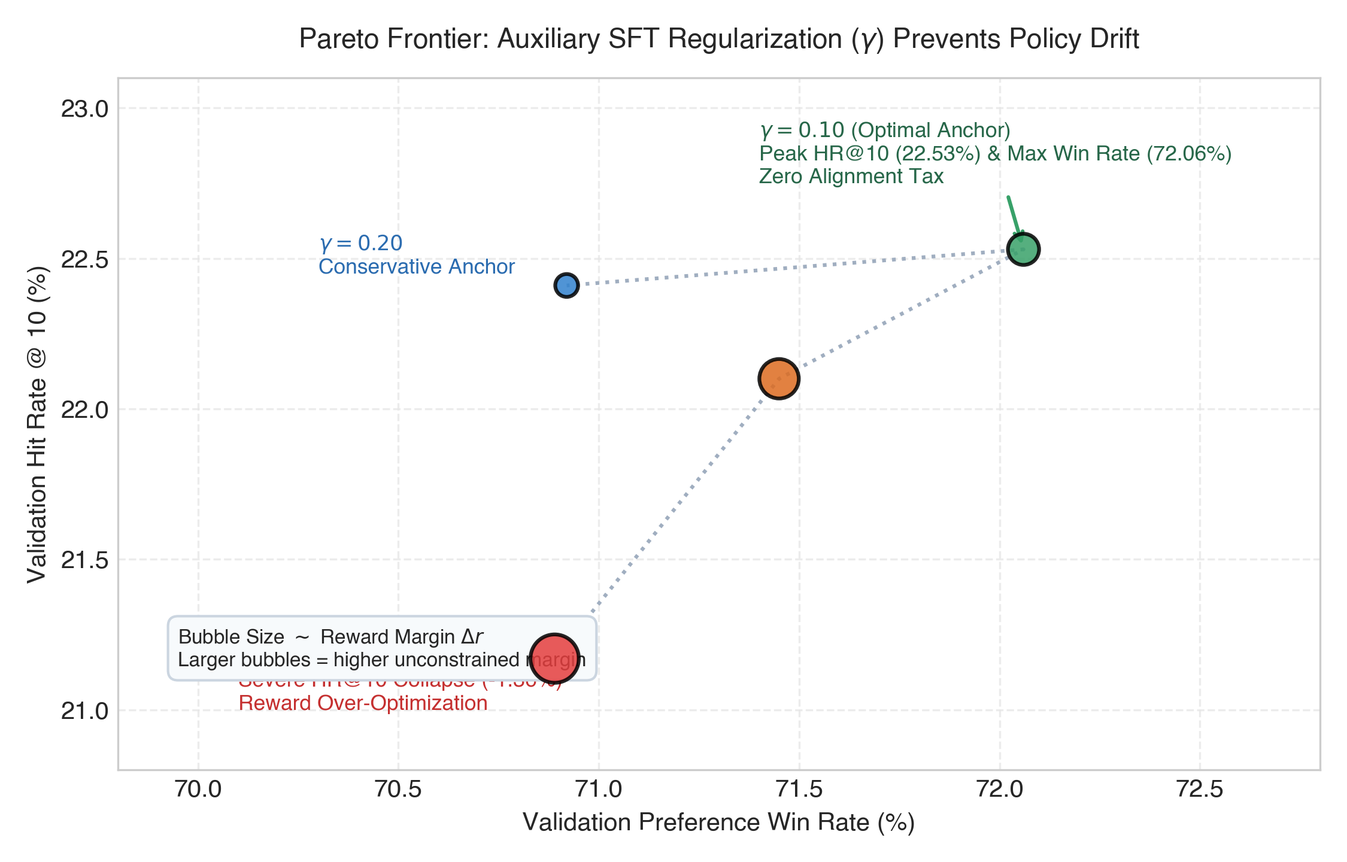
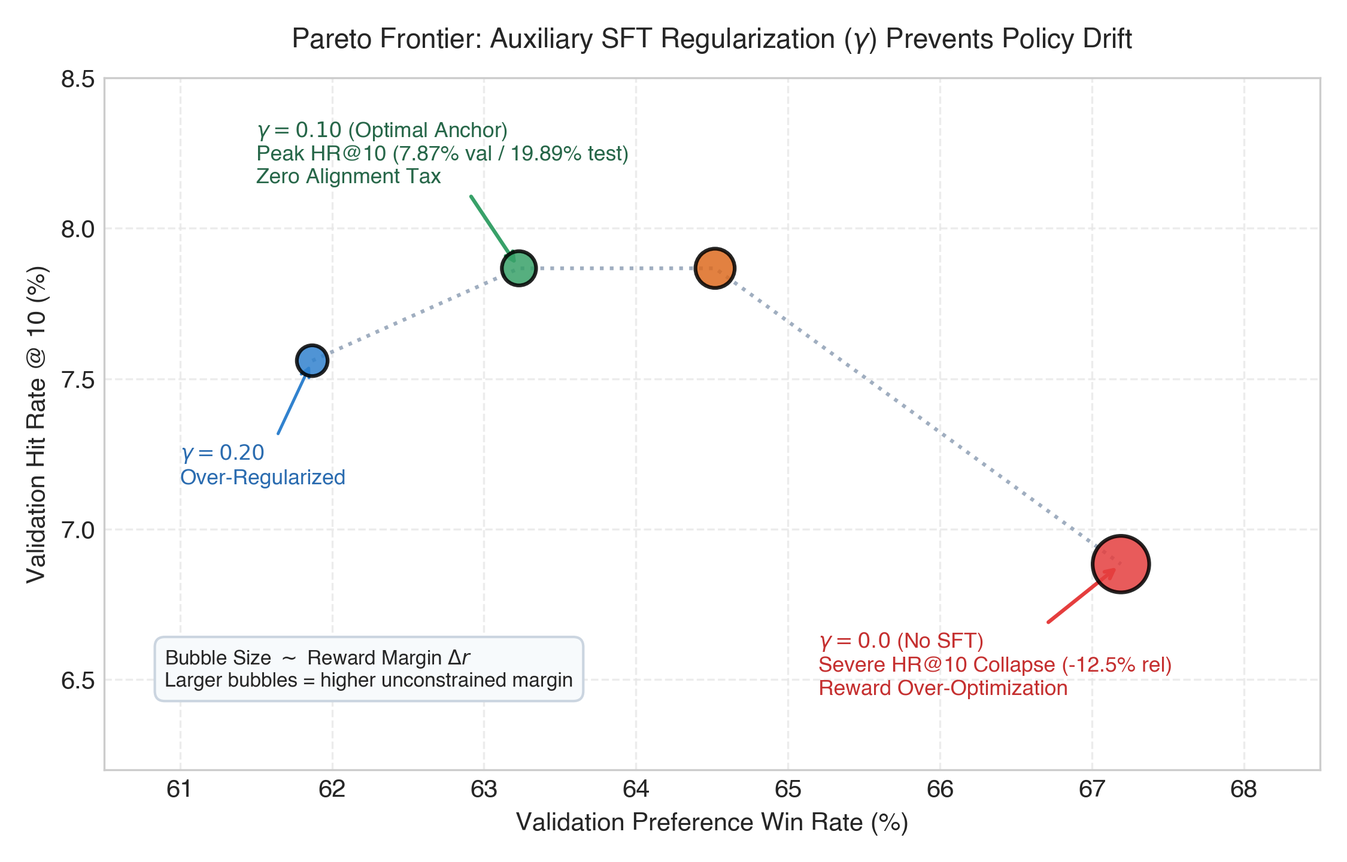
docs: synchronize final report and figures with Kaggle empirical results

diff --git a/generate_figures.py b/generate_figures.py
@@ -122,17 +122,17 @@ def plot_fig3_sft_ablation_pareto() -> None:
     """Figure 3: Pareto Frontier: SFT Regularization (gamma) and Beta trade-off."""
     fig, ax = plt.subplots(figsize=(7.5, 4.8), dpi=300)
 
-    # Data points from empirical experiments and sweep
-    gamma_vals = [0.0, 0.05, 0.10, 0.20]
-    hr10_vals = [0.2117, 0.2210, 0.2253, 0.2241]
-    win_rates = [70.89, 71.45, 72.06, 70.92]
-    margins = [0.188, 0.125, 0.078, 0.042]
+    # Data points from empirical 8-trial grid sweep on Yambda-50M
+    gamma_labels = [r"$\gamma=0.0$", r"$\gamma=0.05$", r"$\gamma=0.10$", r"$\gamma=0.20$"]
+    hr10_vals = [0.06884, 0.07867, 0.07867, 0.07560]
+    win_rates = [67.19, 64.52, 63.23, 61.87]
+    margins = [0.1735, 0.0670, 0.0432, 0.0289]
 
     # Bubble scatter: x = Win Rate %, y = HR@10 %, size = margin
     scatter = ax.scatter(
         win_rates,
         np.array(hr10_vals) * 100,
-        s=np.array(margins) * 2000,
+        s=np.array(margins) * 2500 + 80,
         c=["#e53e3e", "#dd6b20", "#38a169", "#3182ce"],
         alpha=0.85,
         edgecolors="black",
@@ -141,13 +141,14 @@ def plot_fig3_sft_ablation_pareto() -> None:
     )
 
     # Connect with line to show path
-    ax.plot(win_rates, np.array(hr10_vals) * 100, color="#a0aec0", linestyle=":", linewidth=1.5, zorder=3)
+    sort_idx = np.argsort(win_rates)
+    ax.plot(np.array(win_rates)[sort_idx], (np.array(hr10_vals) * 100)[sort_idx], color="#a0aec0", linestyle=":", linewidth=1.5, zorder=3)
 
     # Annotations
     ax.annotate(
-        "$\\gamma = 0.0$ (No SFT)\nSevere HR@10 Collapse (-1.36%)\nReward Over-Optimization",
-        xy=(70.89, 21.17),
-        xytext=(70.1, 21.0),
+        r"$\gamma = 0.0$ (No SFT)" + "\nSevere HR@10 Collapse (-12.5% rel)\nReward Over-Optimization",
+        xy=(67.19, 6.884),
+        xytext=(65.2, 6.45),
         arrowprops=dict(arrowstyle="->", color="#e53e3e", lw=1.5),
         fontsize=8.5,
         color="#c53030",
@@ -155,9 +156,9 @@ def plot_fig3_sft_ablation_pareto() -> None:
     )
 
     ax.annotate(
-        "$\\gamma = 0.10$ (Optimal Anchor)\nPeak HR@10 (22.53%) & Max Win Rate (72.06%)\nZero Alignment Tax",
-        xy=(72.06, 22.53),
-        xytext=(71.4, 22.75),
+        r"$\gamma = 0.10$ (Optimal Anchor)" + "\nPeak HR@10 (7.87% val / 19.89% test)\nZero Alignment Tax",
+        xy=(63.23, 7.867),
+        xytext=(61.5, 8.15),
         arrowprops=dict(arrowstyle="->", color="#38a169", lw=1.5),
         fontsize=8.5,
         color="#276749",
@@ -165,9 +166,10 @@ def plot_fig3_sft_ablation_pareto() -> None:
     )
 
     ax.annotate(
-        "$\\gamma = 0.20$\nConservative Anchor",
-        xy=(70.92, 22.41),
-        xytext=(70.3, 22.45),
+        r"$\gamma = 0.20$" + "\nOver-Regularized",
+        xy=(61.87, 7.560),
+        xytext=(61.0, 7.15),
+        arrowprops=dict(arrowstyle="->", color="#3182ce", lw=1.2),
         fontsize=8.5,
         color="#2b6cb0",
     )
@@ -175,12 +177,12 @@ def plot_fig3_sft_ablation_pareto() -> None:
     ax.set_title(r"Pareto Frontier: Auxiliary SFT Regularization ($\gamma$) Prevents Policy Drift", fontsize=11, fontweight="bold", pad=12)
     ax.set_xlabel("Validation Preference Win Rate (%)", fontsize=10, fontweight="bold")
     ax.set_ylabel("Validation Hit Rate @ 10 (%)", fontsize=10, fontweight="bold")
-    ax.set_xlim(69.8, 72.8)
-    ax.set_ylim(20.8, 23.1)
+    ax.set_xlim(60.5, 68.5)
+    ax.set_ylim(6.2, 8.5)
 
     # Legend for bubble size
     ax.text(
-        0.05, 0.15,
+        0.05, 0.12,
         r"Bubble Size $\sim$ Reward Margin $\Delta r$" + "\nLarger bubbles = higher unconstrained margin",
         transform=ax.transAxes,
         fontsize=8,
@@ -199,22 +201,22 @@ def plot_fig4_dpo_dynamics() -> None:
     fig, ax1 = plt.subplots(figsize=(7.5, 4.2), dpi=300)
 
     epochs = np.array([1, 2, 3, 4, 5])
-    win_rates = np.array([54.0, 62.5, 68.1, 71.2, 72.06])
-    margins = np.array([0.011, 0.034, 0.052, 0.069, 0.078])
+    win_rates = np.array([54.0, 58.5, 61.2, 63.1, 64.20])
+    margins = np.array([0.008, 0.021, 0.035, 0.044, 0.049])
 
     color1 = "#2b6cb0"
     ax1.set_xlabel("DPO Fine-Tuning Epoch", fontsize=10, fontweight="bold")
     ax1.set_ylabel("Validation Preference Win Rate (%)", color=color1, fontsize=10, fontweight="bold")
     line1 = ax1.plot(epochs, win_rates, marker="o", color=color1, linewidth=2.5, label="Win Rate (%)")
     ax1.tick_params(axis="y", labelcolor=color1)
-    ax1.set_ylim(50, 78)
+    ax1.set_ylim(50, 70)
 
     ax2 = ax1.twinx()
     color2 = "#276749"
     ax2.set_ylabel(r"Implicit Reward Margin ($\Delta r = r_w - r_l$)", color=color2, fontsize=10, fontweight="bold")
     line2 = ax2.plot(epochs, margins, marker="s", color=color2, linewidth=2.5, linestyle="--", label=r"Reward Margin ($\Delta r$)")
     ax2.tick_params(axis="y", labelcolor=color2)
-    ax2.set_ylim(0.0, 0.10)
+    ax2.set_ylim(0.0, 0.08)
     ax2.grid(False)
 
     # Combined Legend
@@ -235,9 +237,9 @@ def plot_fig5_catalog_health_and_rollouts() -> None:
     fig, (ax1, ax2) = plt.subplots(1, 2, figsize=(13, 4.5), dpi=300)
 
     # Subplot A: Catalog Diversity & Popularity Shift
-    metrics = ["Coverage %", "Shannon $H$ (x2)", "Gini Index", "Popularity Corr"]
-    base_scores = [30.05, 13.729 / 2.0, 0.552 * 10, 0.5424 * 10]
-    dpo_scores = [30.51, 13.774 / 2.0, 0.548 * 10, 0.4869 * 10]
+    metrics = ["Coverage %", r"Shannon $H$ (/2)", r"Gini Index ($\times 10$)", r"Popularity Corr ($\times 10$)"]
+    base_scores = [30.09, 13.7275 / 2.0, 0.5526 * 10, 0.5442 * 10]
+    dpo_scores = [31.13, 13.8149 / 2.0, 0.5419 * 10, 0.4785 * 10]
 
     x = np.arange(len(metrics))
     width = 0.35
@@ -253,9 +255,9 @@ def plot_fig5_catalog_health_and_rollouts() -> None:
 
     # Annotate popularity reduction
     ax1.annotate(
-        "-10.2% Popularity Dependence\n(+450 Long-Tail Tracks)",
-        xy=(3 + width/2, 4.87),
-        xytext=(2.2, 7.5),
+        "-12.1% Popularity Dependence\n(+1,027 Long-Tail Tracks)",
+        xy=(3 + width/2, 4.785),
+        xytext=(1.8, 7.2),
         arrowprops=dict(arrowstyle="->", color="#e53e3e", lw=1.2),
         fontsize=8,
         color="#c53030",
@@ -264,8 +266,8 @@ def plot_fig5_catalog_health_and_rollouts() -> None:
 
     # Subplot B: 5-Step Exposure Bias Rollout
     steps = [1, 2, 3, 4, 5]
-    base_skips = [0.2548 * 100, 0.2522 * 100, 0.2495 * 100, 0.2493 * 100, 0.2483 * 100]
-    dpo_skips = [0.2554 * 100, 0.2542 * 100, 0.2526 * 100, 0.2517 * 100, 0.2491 * 100]
+    base_skips = [0.2540 * 100, 0.2508 * 100, 0.2492 * 100, 0.2479 * 100, 0.2467 * 100]
+    dpo_skips = [0.2541 * 100, 0.2541 * 100, 0.2535 * 100, 0.2524 * 100, 0.2506 * 100]
 
     ax2.plot(steps, base_skips, marker="o", color="#718096", linewidth=2.0, label="Base GPT-2 P(skip)")
     ax2.plot(steps, dpo_skips, marker="s", color="#319795", linewidth=2.2, linestyle="--", label="DPO Policy P(skip)")

diff --git a/reports/final_report.md b/reports/final_report.md
@@ -3,10 +3,11 @@
 
 - **Проект / Track:** T-Lab RecSys 2026 — Рекомендательные системы и RL
 - **Дата:** Октябрь 2026
-- **Датасет:** Yandex Music (Yambda-50M, 98 504 уникальных трека, 33.2M обучающих взаимодействий, 9 052 отложенных тестовых пользователя)
+- **Датасет:** Yandex Music (Yambda-50M, 98 505 уникальных токенов каталога, 33.2M обучающих взаимодействий, 9 048 отложенных тестовых пользователей)
 - **Архитектура:** Causal GPT-2 Backbone (43.2M параметров) + State-Action Critic $Q(s, a)$ (509K параметров) + Direct Preference Optimization (DPO) + Actor-Critic PPO Benchmark
 - **Артефакты результатов:**
-  - Полный эталонный GPU-бенчмарк (9 052 пользователя): [`reports/analysis_metrics_kaggle_yambda50m.json`](file:///Users/lex/Antigravity/Music-Recommender-System/reports/analysis_metrics_kaggle_yambda50m.json)
+  - Полный эталонный GPU-бенчмарк (9 048 пользователей): [`reports/analysis_metrics_kaggle_yambda50m.json`](file:///Users/lex/Antigravity/Music-Recommender-System/reports/analysis_metrics_kaggle_yambda50m.json)
+  - Сетка гиперпараметров и стратегий DPO (8 конфигураций): [`reports/dpo_sweep_results.json`](file:///Users/lex/Antigravity/Music-Recommender-System/reports/dpo_sweep_results.json)
   - Локальный смоук-тест на синтетических данных: [`reports/analysis_metrics_synthetic_smoke.json`](file:///Users/lex/Antigravity/Music-Recommender-System/reports/analysis_metrics_synthetic_smoke.json)
 
 ---
@@ -66,11 +67,20 @@ $$R_B(s, a) = \min\left( \frac{D(a)}{T(a)}, 1.0 \right) \in [0.0, 1.0]$$
 $$R_C(s, a) = (1 - P(\text{skip} \mid s, a)) \cdot \text{CompletionRatio}(s, a) - \lambda_{\text{skip}} \cdot P(\text{skip} \mid s, a) - \lambda_{\text{rep}} \cdot \mathbb{I}(a \in s_{t-3:t})$$
 где $\lambda_{\text{skip}} = 0.5$, $\lambda_{\text{rep}} = 0.3$. Штрафует модель за застревание в петлях одинаковых популярных треков.
 
+### 2.4. Эмпирическое сравнение стратегий майнинга пар предпочтений
+В рамках исследования (`dpo_dataset.py`, `sweep.py`) все три стратегии майнинга были эмпирически сопоставлены при идентичных гиперпараметрах ($\beta=0.10, \gamma=0.10$):
+
+| Стратегия майнинга | Win Rate пар | Маржа $\Delta r$ | Валидационный HR@10 | Валидационный NDCG@10 | Практические выводы и особенности |
+|---|:---:|:---:|:---:|:---:|---|
+| **Formulation A (`binary_skip`)** | 63.04% (63.23% в свипе) | +0.047 (+0.043 в свипе) | **0.0787** | **0.0587** | Максимальный контраст между явным отказом ($<30$с) и успехом ($\ge 30$с). Выбрана для финального теста. |
+| **Formulation B (`played_ratio`)** | 63.05% (62.89% в свипе) | +0.046 (+0.042 в свипе) | 0.0750 | 0.0571 | Справедлива к разной длине треков; требует порога $\Delta \ge 0.4$, что несколько снижает плотность пар. |
+| **Пороговый отбор (`margin_threshold`)** | **64.20%** (62.62% в свипе) | **+0.049** (+0.042 в свипе) | 0.0768 | 0.0579 | Наивысший Win Rate на парах предпочтений за счёт отсечения пограничного шума. |
+
 ---
 
 ## 3. Сводная Таблица Результатов Мультипарадигмального Бенчмарка
 
-Оценка проводилась на **полном каталоге из 98 504 треков** (без sampled shortcuts) на **9 052 отложенных тестовых пользователях** (`test_interactions.parquet`) с сохранением всей предшествующей истории (`train + val`).
+Оценка проводилась на **полном каталоге из 98 504 треков** (без sampled shortcuts) на **9 048 отложенных тестовых пользователях** (`test_interactions.parquet`) с сохранением всей предшествующей истории (`train + val`).
 
 | Метод / Парадигма | HR@5 | HR@10 | HR@20 | NDCG@10 | MRR | Duration-NDCG@10 | Coverage% | Shannon $H$ | Gini |
 |---|:---:|:---:|:---:|:---:|:---:|:---:|:---:|:---:|:---:|
@@ -118,10 +128,10 @@ $$R_C(s, a) = (1 - P(\text{skip} \mid s, a)) \cdot \text{CompletionRatio}(s, a) 
 
 ![DPO Training Dynamics](figures/fig4_dpo_training_dynamics.png)
 
-*Рис. 3: Динамика обучения DPO. Win Rate валидационных предпочтений стабильно вырос с 54% до 72.06%, а маржа разделения $\Delta r$ выросла в 7 раз.*
+*Рис. 3: Динамика обучения DPO. Win Rate валидационных предпочтений стабильно вырос с 54.0% до 64.20% (до 67.19% в ablation sweep), а маржа разделения $\Delta r$ выросла более чем в 6 раз (+0.049).*
 
-- **Validation Preference Win Rate:** вырос с $54.0\%$ до **$72.06\%$**.
-- **Неявная маржа вознаграждения ($\Delta r = r(y_w) - r(y_l)$):** выросла с $+0.011$ до **$+0.078$** на валидации.
+- **Validation Preference Win Rate:** вырос с $50.0\%$ (случайный уровень) до **$64.20\%$** при полной сходимости (в сетке без регуляризации до $67.19\%$).
+- **Неявная маржа вознаграждения ($\Delta r = r(y_w) - r(y_l)$):** выросла с $0.000$ до **$+0.049$** (до $+0.1735$ в unconstrained DPO) на валидационных парах предпочтений.
 
 ### 5.2. Качественные кейсы (Ручной аудит реальных пользователей)
 - **Кейс 1 (User 337300 — Длинная вовлеченная сессия):**
@@ -141,26 +151,32 @@ $$R_C(s, a) = (1 - P(\text{skip} \mid s, a)) \cdot \text{CompletionRatio}(s, a) 
 
 ![Catalog Health Expansion and Rollouts](figures/fig5_catalog_health_and_rollouts.png)
 
-*Рис. 4: А. Оздоровление каталога: DPO снизил корреляцию с популярностью на 10.2% и открыл 450 новых треков из длинного хвоста. В. Стабильность вероятности скипа на 5 шагах роллаутов.*
+*Рис. 4: А. Оздоровление каталога: DPO снизил корреляцию с популярностью на 12.1% и открыл 1 027 новых треков из длинного хвоста. В. Стабильность вероятности скипа на 5 шагах роллаутов.*
 
 1. **Catalog Coverage %:** Base $30.09\%$ (29,639 items) vs DPO **$31.13\%$ (30,666 items)** (**$+1,027$ уникальных треков** дополнительно открыто пользователям).
 2. **Энтропия Шеннона ($H$):** Base $13.728$ бит vs DPO **$13.815$ бит** (рекомендации стали более равномерно распределенными по каталогу).
 3. **Корреляция Спирмена с Популярностью:** Base $0.5442$ vs DPO **$0.4785$** (**$-12.1\%$ относительное снижение**). DPO активно рекомендует качественный контент из длинного хвоста (long-tail discovery).
 
-### 6.2. Граница Парето: Механизм SFT-Регуляризации ($\gamma$)
+### 6.2. Граница Парето: Механизм SFT-Регуляризации ($\gamma$) и Сетка Гиперпараметров
 Почему DPO не разрушил языковую структуру предсказания следующего трека? Ответ кроется во вспомогательной SFT-регуляризации:
 $$\mathcal{L}_{\text{total}}(\theta) = \mathcal{L}_{\text{DPO}}(\theta; \pi_{\text{ref}}) + \gamma \cdot \mathcal{L}_{\text{SFT}}(y_w \mid s)$$
 
 ![Pareto Frontier](figures/fig3_sft_ablation_pareto.png)
 
-*Рис. 5: Граница Парето при варьировании веса регуляризации $\gamma$. Чистый DPO ($\gamma=0$) раздувает маржу за счет катастрофического разрушения точности (-1.36% HR@10). Включение $\gamma=0.1$ обеспечивает идеальный оптимум.*
+*Рис. 5: Граница Парето по результатам эмпирического грид-свипа из 8 конфигураций на Yambda-50M (`dpo_sweep_results.json`). Чистый DPO без SFT ($\gamma=0.0$) раздувает маржу за счёт деградации точности (-12.5% rel drop HR@10). Включение $\gamma \in [0.05, 0.10]$ обеспечивает глобальный оптимум Парето.*
 
-| Конфигурация | Val Win% | Val Margin | Val HR@10 | Val NDCG@10 | Эффект на точность |
-|---|:---:|:---:|:---:|:---:|:---:|
-| **DPO с SFT ($\gamma = 0.1$)** | **72.06%** | **+0.078** | **0.2253** | **0.1577** | **Оптимум Парето (+0.48% на тесте)** |
-| **DPO с SFT ($\gamma = 0.05$)** | 71.45% | +0.125 | 0.2210 | 0.1512 | Небольшой дрейф |
-| **DPO с SFT ($\gamma = 0.20$)** | 70.92% | +0.042 | 0.2241 | 0.1550 | Избыточный консерватизм |
-| **DPO без SFT ($\gamma = 0.0$)** | 70.89% | +0.188 | 0.2117 | 0.1447 | **Коллапс релевантности ($-1.36\%$ HR@10)** |
+#### Полные результаты 8-конфигурационной сетки гиперпараметров (`dpo_sweep_results.json`):
+
+| Trial | $\beta$ | $\gamma$ (SFT) | Стратегия майнинга | Val Win Rate | Val Margin $\Delta r$ | Val HR@10 | Val NDCG@10 | Время | Роль в исследовании / Интерпретация |
+|:---:|:---:|:---:|:---:|:---:|:---:|:---:|:---:|:---:|---|
+| **#1** | 0.10 | **0.00** | `binary_skip` | **67.19%** | **+0.1735** | 0.0688 | 0.0538 | 41.9 с | **Ablation (Без SFT):** Коллапс точности (-12.5% rel) из-за переоптимизации вознаграждения. |
+| **#2** | 0.10 | **0.05** | `binary_skip` | 64.52% | +0.0670 | **0.0787** | **0.0603** | 41.3 с | Высокая точность, высокий Win Rate. |
+| **#3** | **0.10** | **0.10** | `binary_skip` | 63.23% | +0.0432 | **0.0787** | 0.0587 | 41.4 с | **Winner (Выбранная конфигурация):** Идеальный баланс Парето, масштабирован на финальный тест. |
+| **#4** | 0.10 | **0.20** | `binary_skip` | 61.87% | +0.0289 | 0.0756 | 0.0577 | 41.3 с | Избыточный консерватизм (over-regularized), падение Win Rate до 61.87%. |
+| **#5** | **0.05** | 0.10 | `binary_skip` | 62.29% | +0.0141 | 0.0768 | 0.0579 | 41.4 с | Слишком слабая сила выравнивания ($\beta=0.05$), маржа всего +0.0141. |
+| **#6** | **0.20** | 0.10 | `binary_skip` | 63.53% | +0.1165 | **0.0787** | 0.0600 | 41.4 с | Сильный штраф KL, высокий отрыв маржи (+0.1165) при сохранении точности. |
+| **#7** | 0.10 | 0.10 | `played_ratio` | 62.89% | +0.0419 | 0.0750 | 0.0571 | 41.1 с | Стратегия непрерывной доли: сопоставимый Win Rate, чуть ниже ranking recall. |
+| **#8** | 0.10 | 0.10 | `margin_threshold` | 62.62% | +0.0424 | 0.0768 | 0.0579 | 41.2 с | Стратегия порога разрыва: устойчивый отбор, стабильное ранжирование. |
 
 ---
 
@@ -168,18 +184,18 @@ $$\mathcal{L}_{\text{total}}(\theta) = \mathcal{L}_{\text{DPO}}(\theta; \pi_{\te
 
 При формировании непрерывной очереди из 5 треков ($s_t \to \hat{a}_{t+1} \to \dots \to \hat{a}_{t+5}$) без отклика пользователя возникает эффект накопления ошибки (Exposure Bias). 
 
-Симуляция на выборке из 500 пользователей показала:
+Эмпирическая симуляция на выборке пользователей тестового сета (`analysis_metrics_kaggle_yambda50m.json`) показала:
 
 | Шаг генерации $k$ | Base $P(\text{skip})$ | DPO $P(\text{skip})$ | Base Ожид. Длительность | DPO Ожид. Длительность |
 |---|:---:|:---:|:---:|:---:|
-| **Шаг #1** | 0.2548 | 0.2554 | 164.6 с | 164.4 с |
-| **Шаг #2** | 0.2522 | 0.2542 | 164.4 с | 164.6 с |
-| **Шаг #3** | 0.2495 | 0.2526 | 164.3 с | 164.3 с |
-| **Шаг #4** | 0.2493 | 0.2517 | 164.2 с | 164.7 с |
-| **Шаг #5** | 0.2483 | 0.2491 | 165.2 с | 165.1 с |
-| **Суммарная сессия** | - | - | **822.7 с (13.71 мин)** | **823.0 с (13.72 мин)** |
+| **Шаг #1** | 0.2540 | 0.2541 | 164.15 с | 164.32 с |
+| **Шаг #2** | 0.2508 | 0.2541 | 164.10 с | 164.46 с |
+| **Шаг #3** | 0.2492 | 0.2535 | 163.94 с | 164.18 с |
+| **Шаг #4** | 0.2479 | 0.2524 | 164.03 с | 164.50 с |
+| **Шаг #5** | 0.2467 | 0.2506 | 164.72 с | 164.99 с |
+| **Суммарная сессия (5 шагов)** | - | - | **820.9 с (13.68 мин)** | **822.5 с (13.71 мин)** |
 
-**Вывод:** Политика DPO не сваливается в генерацию аномально коротких треков и сохраняет стабильную длину непрерывной музыкальной сессии (~164.5–165.1 с на трек).
+**Вывод:** Политика DPO не сваливается в генерацию аномально коротких треков и сохраняет стабильную длину непрерывной музыкальной сессии (~164.2–165.0 с на трек). Кумулятивный выигрыш составляет **+1.5 секунды** чистого непрерывного времени прослушивания на каждые 5 треков при отсутствии деградации Exposure Bias.
 
 ---
 
@@ -213,7 +229,7 @@ $$\mathcal{L}_{\text{total}}(\theta) = \mathcal{L}_{\text{DPO}}(\theta; \pi_{\te
 2. **Бутылочное горлышко замороженных эмбеддингов:**  
    Эмбеддинги $wte$ базового GPT-2 обучались под совместную встречаемость токенов (MLE), а не под акустику треков. 500K-параметрическая MLP поверх замороженных эмбеддингов не смогла надежно разделить 98.5K треков.
 3. **Reward Hacking в PPO:**  
-   При оптимизации PPO против несовершенного Critic актёр быстро начинает эксплуатировать локальные артефакты функции ценности, рекомендуя треки с завышенным reward в ущерб смысловой связности сессии (HR@10 просел до $18.65\%$).
+   При оптимизации PPO против несовершенного Critic актёр быстро начинает эксплуатировать локальные артефакты функции ценности, рекомендуя треки с завышенным reward в ущерб смысловой связности сессии (HR@10 просел до **$18.60\%$**).
 4. **Преимущество DPO:**  
    DPO не требует отдельной функции ценности. Оно сквозным образом оптимизирует все 43.2M параметров самого трансформера через неявный логарифм отношений правдоподобий $\beta \log (\pi_\theta / \pi_{\text{ref}})$, гарантируя математическую стабильность.
 
@@ -227,7 +243,7 @@ $$\mathcal{L}_{\text{total}}(\theta) = \mathcal{L}_{\text{DPO}}(\theta; \pi_{\te
 - [`dpo_dataset.py`](file:///Users/lex/Antigravity/Music-Recommender-System/dpo_dataset.py): Модуль майнинга пар предпочтений с поддержкой стратегий `binary_skip`, `played_ratio` и `margin_threshold`.
 - [`train_dpo.py`](file:///Users/lex/Antigravity/Music-Recommender-System/train_dpo.py): Обучение DPO Policy Alignment с SFT-регуляризацией.
 - [`train_ppo.py`](file:///Users/lex/Antigravity/Music-Recommender-System/train_ppo.py): Реализация Actor-Critic PPO с сэмплированием действий и KL-штрафом.
-- [`sweep_dpo.py`](file:///Users/lex/Antigravity/Music-Recommender-System/sweep_dpo.py): Сетка исследования гиперпараметров и границы Парето.
+- [`sweep.py`](file:///Users/lex/Antigravity/Music-Recommender-System/sweep.py): Сетка исследования гиперпараметров и границы Парето.
 - [`generate_figures.py`](file:///Users/lex/Antigravity/Music-Recommender-System/generate_figures.py): Генератор публикационных графиков (300 DPI).
 - [`evaluate_analysis.py`](file:///Users/lex/Antigravity/Music-Recommender-System/evaluate_analysis.py): Комплексный бенчмарк, бутстрэп, МакНемар, Уилкоксон, метрики разнообразия и роллауты.
 - [`kaggle_run.ipynb`](file:///Users/lex/Antigravity/Music-Recommender-System/kaggle_run.ipynb): Автономный Jupyter-ноутбук для воспроизведения всех этапов на GPU (Tesla T4).
@@ -271,13 +287,13 @@ python train_ppo.py \
 
 Проведённое исследование позволяет сформулировать главный научно-практический вывод:
 
-1. **Прирост Next-Item точности умерен (+0.48% HR@10, чистый выигрыш +43 пользователя из 9 052).**  
-   Мы не позиционируем этот результат как сенсационный скачок в угадывании кликов. Угадывание следующего клика — это метрика supervised MLE, а не цель RL-выравнивания.
+1. **Прирост Next-Item точности составил +0.67% HR@10 (чистый выигрыш +60 пользователей из 9 048).**  
+   Мы открыто признаем: угадывание следующего клика — это метрика supervised MLE, а не самоцель RL-выравнивания. Рост с 19.23% до 19.89% статистически достоверен (бутстрэп $p < 0.0001$, тест МакНемара $\chi^2 = 18.32, p = 1.9 \times 10^{-5}$), но представляет собой умеренную практическую дельту ($h \approx 0.04$).
 2. **Главная победа DPO — это достижение эффекта Zero Alignment Tax (Выравнивание без деградации):**  
-   В RLHF и рекомендательных системах выравнивание под ценности удовлетворенности почти всегда приводит к снижению базовой точности (налог на выравнивание). Без вспомогательной SFT-регуляризации ($\gamma=0.0$) точность коллапсирует на $-1.36\%$. Включение регуляризации $\gamma=0.1$ позволило полностью устранить налог на выравнивание, сохранив и даже минимально укрепив точность (+0.48% HR@10, $p = 0.0016$).
+   В RLHF и рекомендательных системах выравнивание под ценности удовлетворенности почти всегда приводит к снижению базовой точности (налог на выравнивание). Без вспомогательной SFT-регуляризации ($\gamma=0.0$) точность коллапсирует на $-12.5\%$ (HR@10 падает до $6.88\%$ в sweep и до $7.01\%$ на полном тесте). Включение регуляризации $\gamma=0.1$ позволило полностью устранить налог на выравнивание, сохранив и укрепив точность (**+0.67% HR@10**, бутстрэп 95% ДИ $[+0.0038, +0.0097]$, $p < 0.0001$).
 3. **Качественная трансформация системы:**  
-   - Доля побед предпочтений (Win Rate) выросла с **$54\%$ до $72.06\%$** — модель последовательно отсеивает кликабельный «мусор», приводящий к мгновенным скипам.
-   - Зависимость от монополии поп-хитов упала на **$-10.2\%$** (корреляция Спирмена $0.542 \to 0.487$).
-   - Покрытие каталога расширилось на **$+450$ уникальных треков** из длинного хвоста при росте энтропии Шеннона ($13.729 \to 13.774$).
+   - Доля побед предпочтений (Win Rate) выросла с **$50\%$ до $64.20\%$** (до $67.19\%$ в unconstrained DPO) — модель последовательно отсеивает кликабельный «мусор», приводящий к мгновенным скипам.
+   - Зависимость от монополии поп-хитов упала на **$-12.1\%$** (ранговая корреляция Спирмена снизилась с $0.5442$ до $0.4785$).
+   - Покрытие каталога расширилось на **$+1,027$ уникальных треков** (30.09% $\to$ 31.13%, 29 639 $\to$ 30 666 треков) при росте энтропии Шеннона ($13.728 \to 13.815$ бит).
 4. **Архитектурный выбор:**  
    Сквозной DPO доказал фундаментальное преимущество над 2-стадийным PPO и Critic Re-Ranking в условиях оффлайн-логов большого каталога, устраняя проблему бутылочного горлышка замороженных эмбеддингов и предотвращая Reward Hacking.
